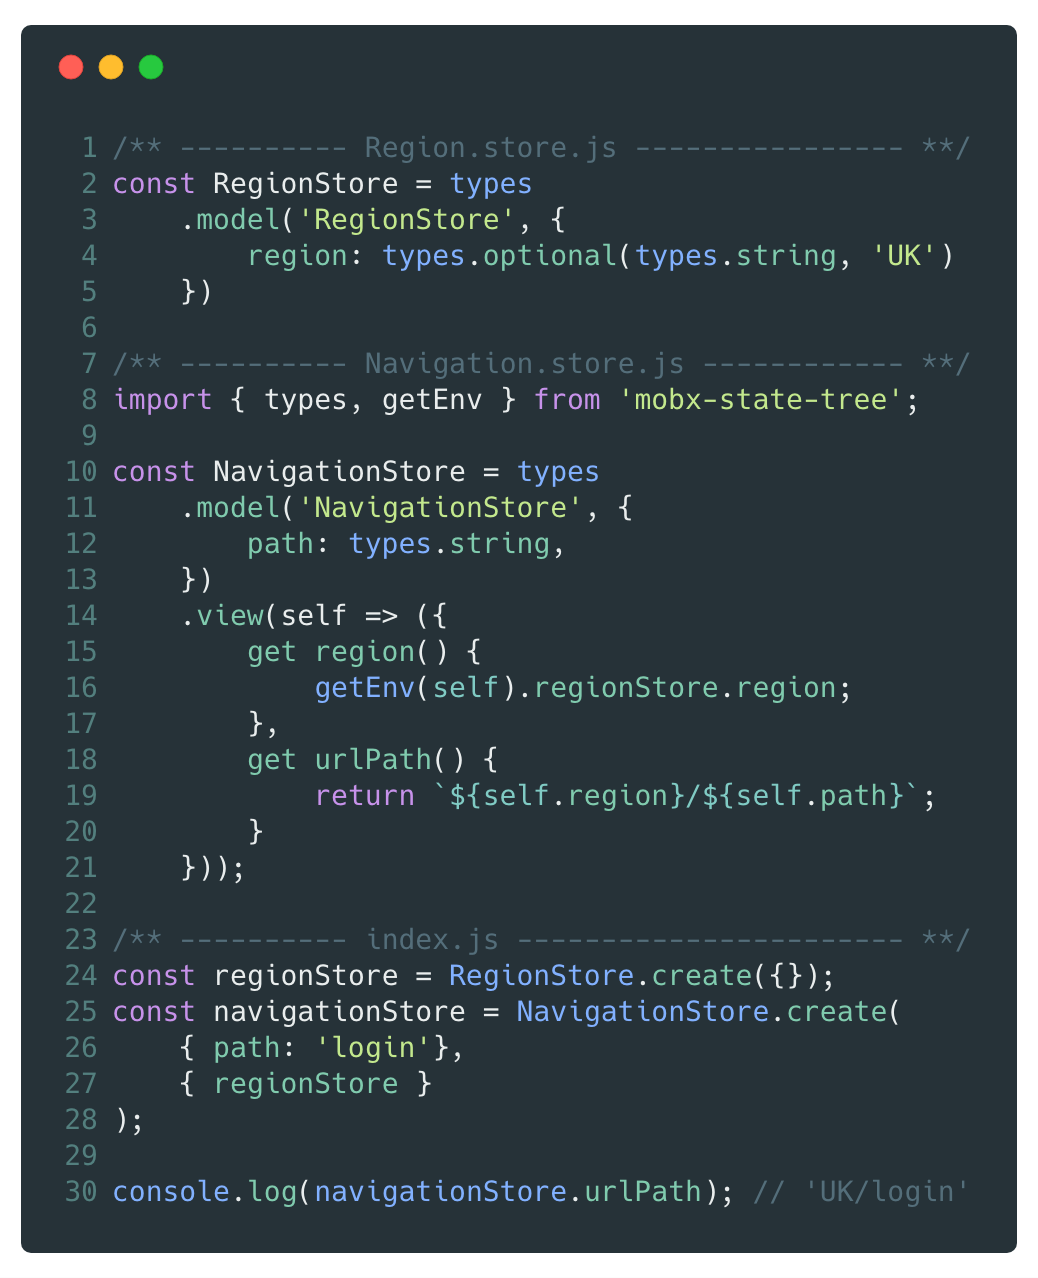
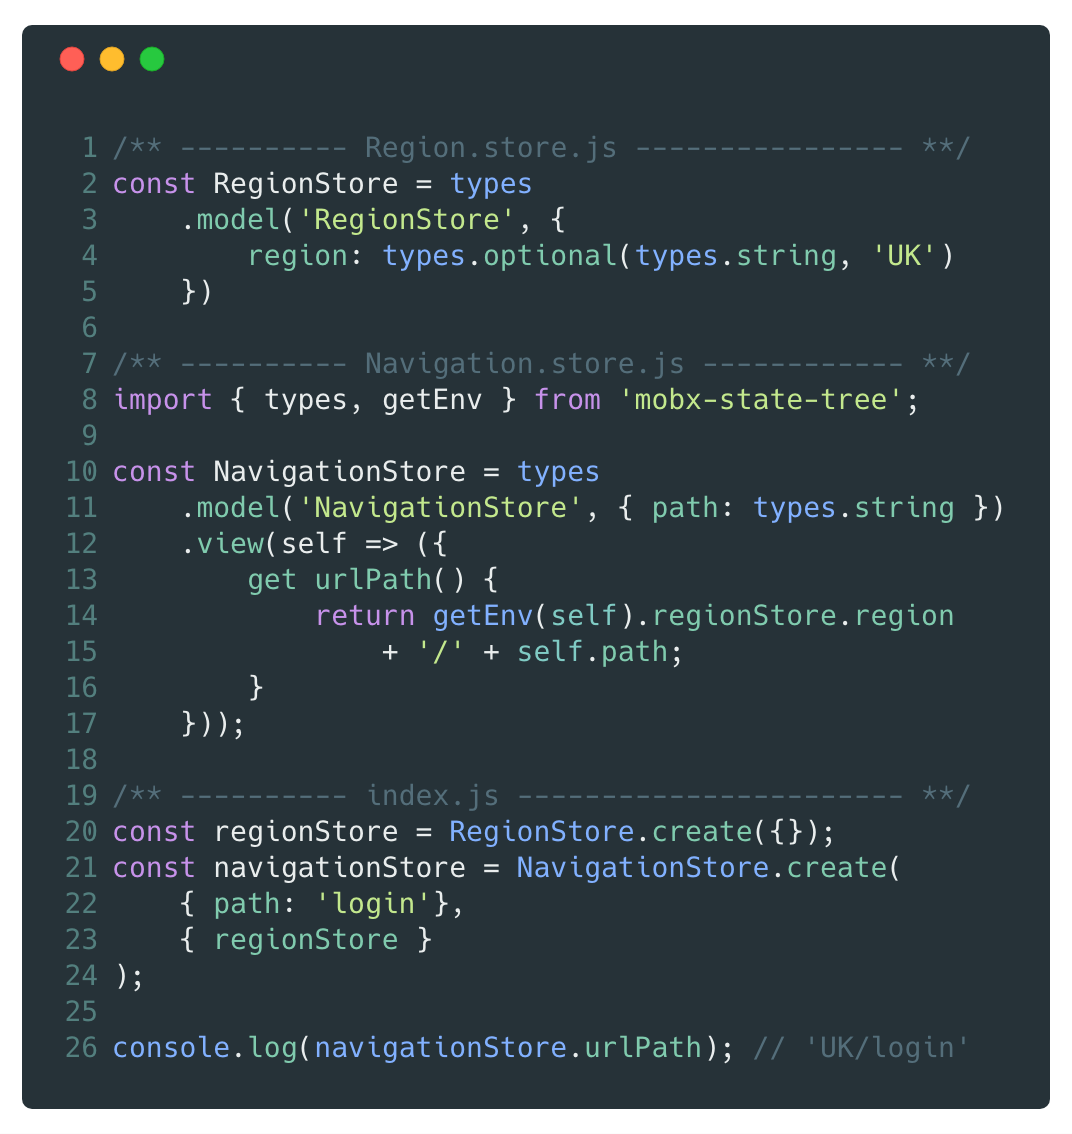
shorter dependency injection communication example

diff --git a/assets/codeExamples/communicationInjection/code.js b/assets/codeExamples/communicationInjection/code.js
@@ -8,15 +8,11 @@ const RegionStore = types
 import { types, getEnv } from 'mobx-state-tree';
 
 const NavigationStore = types
-    .model('NavigationStore', {
-        path: types.string,
-    })
+    .model('NavigationStore', { path: types.string })
     .view(self => ({
-        get region() {
-            getEnv(self).regionStore.region;
-        },
         get urlPath() {
-            return `${self.region}/${self.path}`;
+            return getEnv(self).regionStore.region
+          		+ '/' + self.path;
         }
     }));
  
@@ -24,7 +20,7 @@ const NavigationStore = types
 const regionStore = RegionStore.create({});
 const navigationStore = NavigationStore.create(
     { path: 'login'},
-    { regionStore }
+    { regionStore } 
 );
 
 console.log(navigationStore.urlPath); // 'UK/login'
